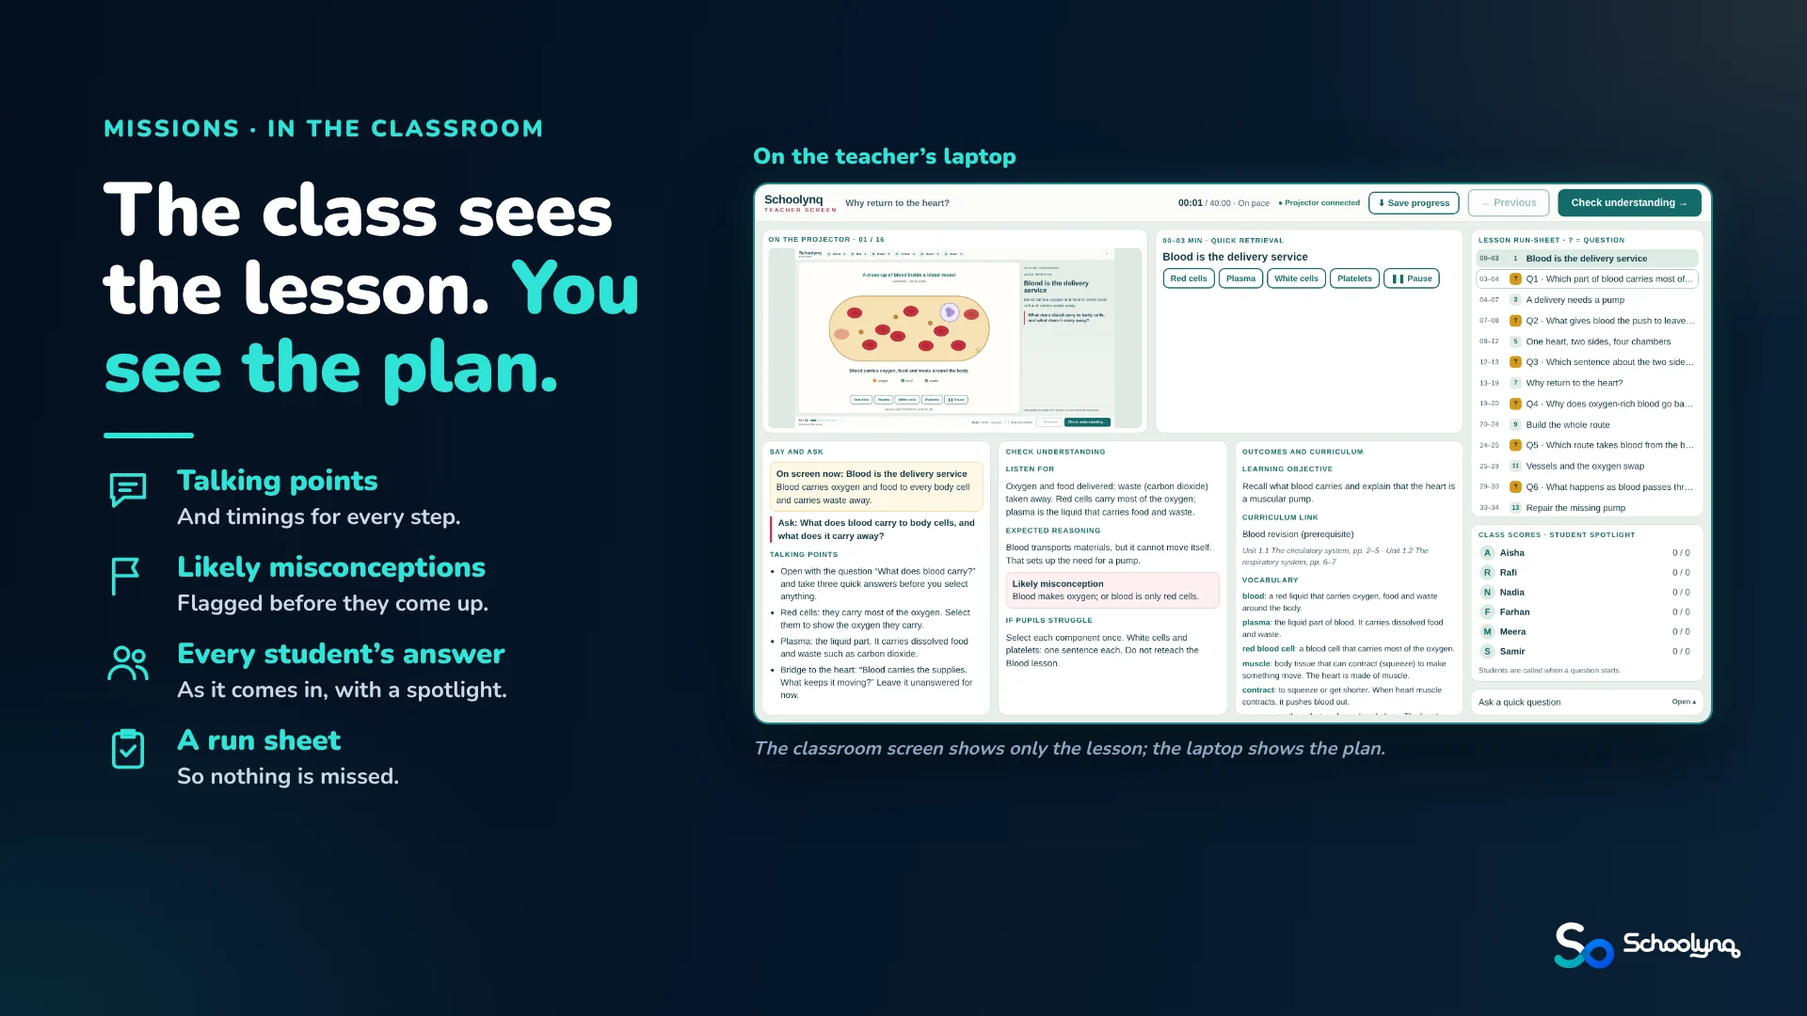
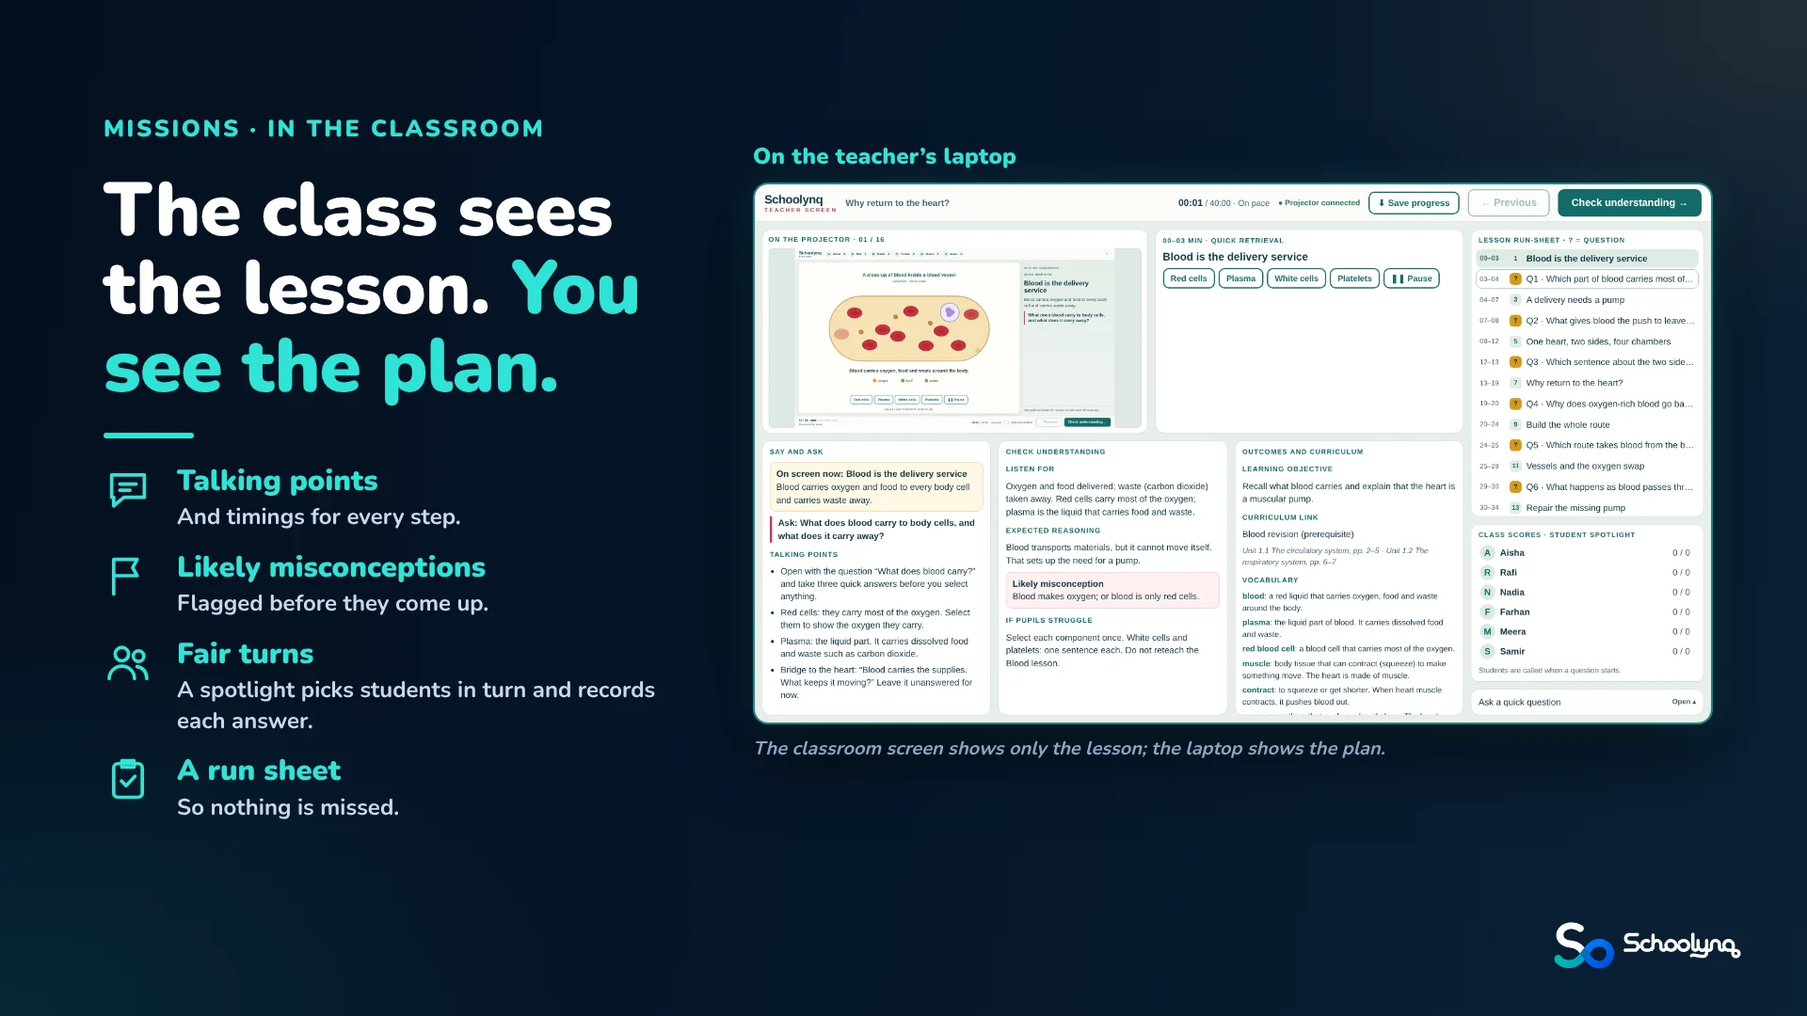
Pitch: speaker script, and talking points that follow it
- PITCH-SPEECH.md: the full speech for the 13-slide pitch, rewritten
  from the earlier 10-slide speech: 8-week pilot, two classes, Maths and
  Science, and nothing about cost or terms
- the pitch's laptop talking points are now short cues from that script
- slide 7 says "Fair turns": the spotlight picks students in turn and
  records each answer (it does not collect answers from every student)

Claude-Session: https://claude.ai/code/session_011teEeWG9db8oQ8FU6zzm8N

Changed region(s): [[0.0625, 0.6111, 0.375, 0.825]]

diff --git a/presenter.html b/presenter.html
@@ -318,63 +318,80 @@ const SLIDES = [
 const PITCH = [
   { id: 1, title: 'Ready lessons for teachers. Clear progress for school leaders.', secs: 12,
     links: [['Open the demo school', 'index.html']],
-    notes: ['Schoolynq gives teachers ready lessons and gives school leaders a clear view of progress.',
-            'Missions cover Grades 1 to 8 on the classroom screen; Polaris covers Grades 9 to 12 on each student’s own device.',
-            'Everything is built on the Cambridge curriculum and on the books and calendar your school already uses.'] },
+    notes: ['Thank them. We come from teaching and curriculum backgrounds.',
+            'Ready lessons for teachers; a clear view of learning for school leaders.',
+            'Missions: Grades 1–8 on the classroom screen. Polaris: Grades 9–12 on each student’s own device.',
+            'Plan: the problem, how we prepare, what teachers and leaders get, a small way to start.'] },
   { id: 2, title: 'There’s a lot behind a great 40-minute lesson', secs: 15, links: [],
-    notes: ['A good 40-minute lesson needs a clear explanation, visuals that carry the idea, practice with a purpose and a check that students understood.',
-            'Teachers rebuild all of that every day, for every section, on top of marking and admin.',
-            'Schoolynq does the preparation, so teachers can spend their time teaching.'] },
+    notes: ['Knowing the subject is only part of a good lesson.',
+            'Introduce the idea, find the visual, plan purposeful practice, ask the question that shows understanding.',
+            'Doing that for every lesson and every section takes a great deal of preparation.',
+            'Our question: how do we make strong preparation easier, day after day?'] },
   { id: 3, title: 'More from your teachers, resources and classroom technology', secs: 15,
     links: [['Open a mission', 'missions/heart-v4/index.html']],
-    notes: ['The aim is to get more from what the school already has: its teachers, its books and the screen in the classroom.',
-            'Students explore with simulations, explain their thinking, and apply it in practice and worksheets.'] },
+    notes: ['You have already invested in teachers, screens and resources; we help you get more from them.',
+            'Students change something and see what happens: blood through the heart, a shape whose area changes.',
+            'What matters is next: can they explain it, answer a question on it, apply it next week?',
+            'Visuals sit alongside reading, discussion and written practice.'] },
   { id: 4, title: 'AI may know the topic. Does it know the lesson?', secs: 15, links: [],
-    notes: ['A general AI tool can write about any topic, but it does not know your grade, your syllabus objectives or where this lesson sits in the term.',
-            'Schoolynq lessons are prepared around your curriculum and your teaching plan, at the right depth and in the right order.'] },
+    notes: ['AI may know the topic. Does it know the lesson?',
+            'This grade’s objective, what the class covered, the expected depth, the misconception to tackle.',
+            'Someone still has to check the material and fit it into teaching.',
+            'That is our work. So what do we need from your school?'] },
   { id: 5, title: 'Prepared from the materials your school already uses', secs: 18, links: [],
-    notes: ['The school shares what it already uses: the syllabus, the books, the academic calendar and the weekly routine.',
-            'Schoolynq prepares the teaching plan and the lesson resources from those.',
-            'Teachers teach, and the academic team reviews progress as it happens.'] },
+    notes: ['Syllabus: what to learn and how deep. Books: content, vocabulary, examples, practice.',
+            'Calendar: term dates, events, assessments. Weekly routine: how often, how much time.',
+            'From those we build the teaching plan and resources; no finished plan needed from the school.',
+            'Teachers teach; the academic team sees progress and where to follow up.'] },
   { id: 6, title: 'A lesson ready to teach', secs: 18,
     links: [['Open the Heart mission', 'missions/heart-v4/index.html'], ['Open the Blood mission', 'missions/blood/index.html']],
-    notes: ['Every mission follows the same shape: explain, explore, check and practise.',
-            'Here, students explore the heart in a simulation on the classroom screen, then the whole class answers a check-understanding question.',
-            'Teacher guidance, pupil notes and worksheets come with every lesson.'] },
+    notes: ['Click “Open the Heart mission”.',
+            'Same shape every time: explain, explore, check, practise.',
+            'Pause at the lungs: “The blood has picked up oxygen. Why does it need to go back to the heart?”',
+            'Their answers decide it: move on, or explain that part again.'] },
   { id: 7, title: 'The class sees the lesson. You see the plan.', secs: 18,
     links: [['Open the Blood mission', 'missions/blood/index.html']],
-    notes: ['With two screens, the classroom screen shows only the lesson and the teacher’s laptop shows the plan.',
-            'Talking points, timings and likely misconceptions sit beside every student’s answer as it comes in.',
-            'To try it, open the Blood mission and choose “Start with teacher screen”. This presenter works the same way.'] },
+    notes: ['Optional: Blood mission, then “Start with teacher screen”.',
+            'The class sees only the lesson; the laptop shows talking points, timings, likely misconceptions and a run sheet.',
+            'The spotlight picks students in turn and records each answer against their name.',
+            'This presentation works the same way: you see slides, I see notes.'] },
   { id: 8, title: 'Notes and worksheets, ready to print', secs: 15,
     links: [['Heart worksheet (PDF)', 'missions/heart-v4/printables/worksheet.pdf'], ['Blood notes (PDF)', 'missions/blood/printables/pupil-notes.pdf']],
-    notes: ['Every mission comes with pupil notes, a worksheet with an answer key, exit slips and a teacher guide.',
-            'Worksheets have square-grid and ruled space for working.'] },
+    notes: ['Not all learning happens on a screen.',
+            'Pupil notes, worksheets with grid and ruled space, exit slips with an answer key, a teacher guide.',
+            'The written practice matches what was taught on the board.'] },
   { id: 9, title: 'Shared objectives. Flexible teaching.', secs: 18,
     links: [['Open the lesson planner', 'lesson-planner.html']],
-    notes: ['The plan is built around the school’s weekly routine, with the same goals across every section.',
-            'When the calendar changes, the plan is re-paced, and each teacher keeps room to respond to their class.',
-            'A typical 40-minute lesson: 20 minutes teaching, 15 minutes practice, 5 minutes review.'] },
+    notes: ['Click “Open the lesson planner”.',
+            'Same core objectives and checks across sections; room for each teacher to respond to their class.',
+            'Example rhythm: 20 minutes teaching, 15 practice, 5 review, built around the school’s expectations.',
+            'A lesson runs long or an event takes a day: the plan is re-paced against time left and the next assessment.'] },
   { id: 10, title: 'A clearer view across your classrooms', secs: 18,
     links: [['Open the principal dashboard', 'principal-dash.html'], ['Open the school view', 'student-analysis.html#school']],
-    notes: ['Coordinators and leaders see coverage, pacing, teacher usage and student responses in one place.',
-            'It points to where to look first, so leaders can identify gaps, support teachers and follow up.',
-            'The evidence sits alongside teacher judgement; it does not replace it.'] },
+    notes: ['Click “Open the principal dashboard”. The school and the numbers are invented.',
+            'Coverage, pacing, teacher usage and student responses across sections.',
+            'Read signals together: finishing is not understanding; taking longer is not bad teaching.',
+            'It shows where to look first: identify a gap, share what worked, support a teacher, follow up.'] },
   { id: 11, title: 'Know where students need help', secs: 18,
     links: [['Open this class', 'student-analysis.html#class-5A-sci'], ['Open Sarah’s profile', 'student-analysis.html#SQ-5A-21']],
-    notes: ['Student responses become teaching decisions: by lesson, by class and by student.',
-            'Each flag names its evidence, for example a missed lesson with no class evidence before the block assessment.'] },
+    notes: ['Click “Open this class”, then “Open Sarah’s profile”.',
+            'The teacher’s question: what do I teach again tomorrow, and who needs help?',
+            'Sarah was absent for Body systems: a catch-up pack before the block assessment.',
+            'Present but still misunderstanding: a different explanation and targeted practice.',
+            'It fits your processes; your coordinators decide what is useful.'] },
   { id: 12, title: 'Polaris: understand the concept, apply it independently', secs: 15,
     links: [['Simulation Lab', 'https://schoolynq.com/lab/'], ['schoolynq.com', 'https://schoolynq.com/']],
-    notes: ['Polaris carries the same approach to Grades 9 to 12, on each student’s own device.',
-            'Students learn topic by topic, revise at their own pace with follow-up on every wrong answer, and practise exam questions.'] },
+    notes: ['Senior years: revisit the syllabus independently, apply it to unfamiliar questions.',
+            'Velocity–time graphs: a week later, gradient or area?',
+            'Syllabus-based learning, independent revision, exam practice, simulations where they help.',
+            'Show the explanation or simulation, then the question.'] },
   { id: 13, title: 'Start with an 8-week pilot', secs: 25,
     links: [['Plan your pilot', 'https://schoolynq.com/#contact']],
-    notes: ['Here is how a school starts: an 8-week pilot in two classes, in Maths and Science, with one coordinator.',
-            'Before week 1, you choose the classes and share the syllabus pages and calendar. We prepare the lessons and train the teachers.',
-            'In weeks 1 and 2 our team is in the room for the first lessons, and we take a baseline. In weeks 3 to 6 the missions run in normal lessons, with a review at week 4.',
-            'In weeks 7 and 8 you see the results against the baseline and hear from teachers and students. Then you decide: expand, adjust or stop.',
-            'The first step is small: one lesson with your coordinator and two teachers. Thank you.'] }
+    notes: ['Eight weeks, two classes, Maths and Science, one coordinator.',
+            'Before week 1: agree the classes, chapters, roles and what makes it worthwhile. We prepare the lessons and train the teachers.',
+            'Weeks 1–2: our team in the room, and a baseline. Weeks 3–6: normal lessons, review at week 4.',
+            'Weeks 7–8: results against the baseline and a written summary. They decide: expand, adjust or stop.',
+            'Ask: shall we show your coordinator and two teachers a lesson for a chapter they are about to teach?'] }
 ];
 const PITCH_DIR = 'slides/pitch/';   // plain string, like SLIDE_DIR
 const SLIDE_DIR = 'slides/';   // kept as a plain string so the schoolynq.com copy can point it at the right folder

diff --git a/PITCH-SPEECH.md b/PITCH-SPEECH.md
@@ -1,0 +1,161 @@
+# Schoolynq pitch: speaker script
+
+For the 13-slide Schoolynq pitch in the Presenter. About 14 minutes of speaking, plus the live demos.
+Lines in [square brackets] are actions; the buttons are on the slides. With “Present with laptop screen”, a short version of each slide’s points shows on your laptop.
+
+---
+
+## 1 · Ready lessons for teachers. Clear progress for school leaders.
+
+Thank you for making time for us. My colleagues and I come from teaching and curriculum backgrounds, and Schoolynq grew out of something we kept running into in our own classrooms.
+
+In one line: Schoolynq gives teachers ready lessons, and gives school leaders a clear view of how learning is going. **Missions** covers Grades 1 to 8, on the classroom screen. **Polaris** covers Grades 9 to 12, on each student’s own device. Both are built on the Cambridge curriculum and on the books and calendar your school already uses.
+
+I’ll start with the problem, show you how we prepare lessons and what teachers and leaders get, and finish with a small, practical way to try it.
+
+## 2 · There’s a lot behind a great 40-minute lesson
+
+There’s a lot of work behind a really good forty-minute lesson.
+
+Knowing the subject is only part of it. Someone still has to decide how to introduce the idea, find a visual that makes it clear, prepare practice with a purpose, and ask a question that shows whether students actually understood.
+
+Experienced teachers do this well. But doing it consistently, for every lesson and every section, takes a great deal of preparation, on top of marking and everything else in a school week.
+
+So our question was simple: how can we make strong lesson preparation easier to deliver, day after day?
+
+## 3 · More from your teachers, resources and classroom technology
+
+Your school has already invested in good teachers, classroom screens and learning resources. We want to help your teachers get more from that investment.
+
+A classroom screen can do more than show slides or play a video. Students can change something and see what happens. In Science, they might follow blood through the heart. In Maths, they might stretch a shape and watch its area change.
+
+What matters is what students do next. Can they explain it? Can they answer a question about it? Can they apply it again next week?
+
+So the visuals sit alongside reading, discussion and written practice. They give the teacher one more way to explain a difficult idea.
+
+## 4 · AI may know the topic. Does it know the lesson?
+
+Teachers now also have AI. That opens up a lot, but access alone doesn’t produce a consistent lesson.
+
+AI may know the topic. *Does it know the lesson?*
+
+Does it know the objective for this grade? What the class covered last week? How deeply your school expects the topic to be taught? Which misconception to tackle? What students should be able to do by the end of the period?
+
+The result depends on those details, and on someone checking the material and fitting it into teaching.
+
+That is the work we do: explanations, visuals, activities, practice and checks on understanding, organised into a teaching sequence for your classes.
+
+So what do we need from your school?
+
+## 5 · Prepared from the materials your school already uses
+
+Four things you already have.
+
+- Your **syllabus** tells us what students need to learn, and how deep to go.
+- Your **books** give us the content, vocabulary, examples and practice students work with.
+- Your **academic calendar** shows how teaching fits around term dates, events, assessments and revision.
+- Your **weekly routine** tells us how often each subject is taught, and how much time there is.
+
+From those, we build the teaching plan and prepare the lesson resources. You don’t need to write a finished teaching plan for us first.
+
+Your teachers teach with those resources, and your academic team can see progress and where follow-up is needed.
+
+Let me show you what that looks like in a lesson.
+
+## 6 · A lesson ready to teach
+
+[Click “Open the Heart mission”.]
+
+This is a Mission a teacher would use for an upcoming Science lesson. Every Mission has the same shape: explain, explore, check, practise.
+
+The teacher opens it with the notes and worksheet already in place. Inside, the lesson moves in a prepared sequence: a visual explanation, something for students to do, and questions that tell the teacher whether to move on or go back.
+
+Here, I’ll pause when the blood reaches the lungs and ask:
+
+> “The blood has picked up oxygen. Why does it need to go back to the heart?”
+
+The model gives students something concrete to reason about, and their answers tell the teacher far more than “Does everyone understand?” If they can explain the next step, we move on. If they can’t, we know exactly which part to explain again.
+
+## 7 · The class sees the lesson. You see the plan.
+
+[Optional: open the Blood mission and choose “Start with teacher screen”.]
+
+With two screens, the class sees only the lesson. The teacher’s laptop shows the plan: talking points and timings for each step, the misconceptions to expect, and a run sheet so nothing is missed.
+
+When the teacher asks a question, the spotlight picks students in turn, so it isn’t always the same hands, and each answer is recorded against the student’s name.
+
+In fact, this presentation is running the same way. You’re seeing the slides; I’m seeing my notes.
+
+## 8 · Notes and worksheets, ready to print
+
+Not all learning happens on a screen. Each Mission comes with pupil notes, a worksheet with square-grid and ruled space for working, exit slips with an answer key, and a teacher guide.
+
+Teachers print what they need, so the written practice matches what was taught on the board.
+
+## 9 · Shared objectives. Flexible teaching.
+
+[Click “Open the lesson planner”.]
+
+Across parallel sections, teachers work towards the same core objectives and use the same check on understanding. Each teacher still has room to explain differently, spend longer on a hard point and respond to their class.
+
+The school can also set its preferred lesson rhythm. For a forty-minute period, that might be twenty minutes of teaching, fifteen of practice and five of review. That’s only an example; we build the material around your expectations.
+
+The planner ties the sequence to your calendar and weekly routine. When a lesson runs long, or a school event takes a day, the plan is re-paced against the time left and the next assessment.
+
+That gives teachers and coordinators a shared starting point for talking about coverage, pacing and classroom time.
+
+## 10 · A clearer view across your classrooms
+
+[Click “Open the principal dashboard”.]
+
+For coordinators and school leaders, this dashboard brings together coverage, pacing, teacher usage and student responses across sections. The school and the numbers in this demo are invented, but the questions are real.
+
+Are sections progressing as planned? Where is evidence of understanding missing? Is a difficulty showing up in one class, or across the grade?
+
+These signals need reading together. A section that finished the material hasn’t necessarily understood it. A section that took longer wasn’t necessarily taught badly. That’s why the evidence sits alongside professional judgement, not in place of it.
+
+Used well, it tells a coordinator where to look first: to identify a gap, share an explanation that worked, or give a teacher specific support and then follow up.
+
+## 11 · Know where students need help
+
+[Click “Open this class”, then “Open Sarah’s profile”.]
+
+For the class teacher, the question is more immediate: *what do I need to teach again tomorrow, and who needs help?*
+
+Here we look across the class lesson by lesson, which shows whether a concept is troubling most of the class or a small group. Then we open one student.
+
+Sarah missed the Body systems lesson because she was absent, so there’s no class evidence for her yet. Her next step is a catch-up pack before the block assessment. A student who was there, did the work and still keeps misunderstanding the same idea needs something different: another explanation and targeted practice.
+
+Responses sit alongside homework, tests, attendance and teacher notes. The aim is always a specific next step, and then a check that it helped.
+
+We’d fit this to your existing academic processes. Your coordinators and teachers decide which information is useful and how it’s used.
+
+## 12 · Polaris: understand the concept, apply it independently
+
+Polaris is for a different stage. In the senior years, following an explanation in class is only the beginning. Students also need to go back over the syllabus on their own, and apply what they know to unfamiliar questions.
+
+For example, a student follows a lesson on velocity–time graphs today. A week later, can they tell when a question needs the gradient, and when it needs the area?
+
+Polaris brings together syllabus-based learning, independent revision and exam practice, with simulations where they help. When a student gets something wrong, they get follow-up on exactly that idea.
+
+[Click “Simulation Lab”, or open a senior Physics topic. Show the explanation or simulation, then the question.]
+
+It gives students a clear route back into a topic, and a way to check they can really use it.
+
+## 13 · Start with an 8-week pilot
+
+[Leave this slide up for the discussion.]
+
+My suggestion is to start small, with a clearly defined pilot: **eight weeks, two classes, in Maths and Science, with one coordinator.**
+
+Before week one, we agree the classes, the chapters coming up, what our team provides, what teachers need to do, and what would make the pilot worthwhile for you. You share the syllabus pages and calendar; we prepare the lessons and train the teachers.
+
+- In **weeks one and two**, our team is in the room for the first lessons, and we take a baseline.
+- In **weeks three to six**, the Missions run in normal lessons, with a review together at week four.
+- In **weeks seven and eight**, we look at the results against that baseline. Did it save preparation time? Did it work in the classroom? Did it show where students were struggling? Did it give the academic team something useful to act on? We write up what worked and what needs changing.
+
+Then you decide: expand, adjust or stop. Even if you stop, your team keeps useful findings about those lessons and those students.
+
+If your senior Physics team is interested, we’d also be glad to show them Polaris separately.
+
+So, a small first step: would it make sense for us to show your coordinator and two teachers a lesson for a chapter they’re about to teach?
